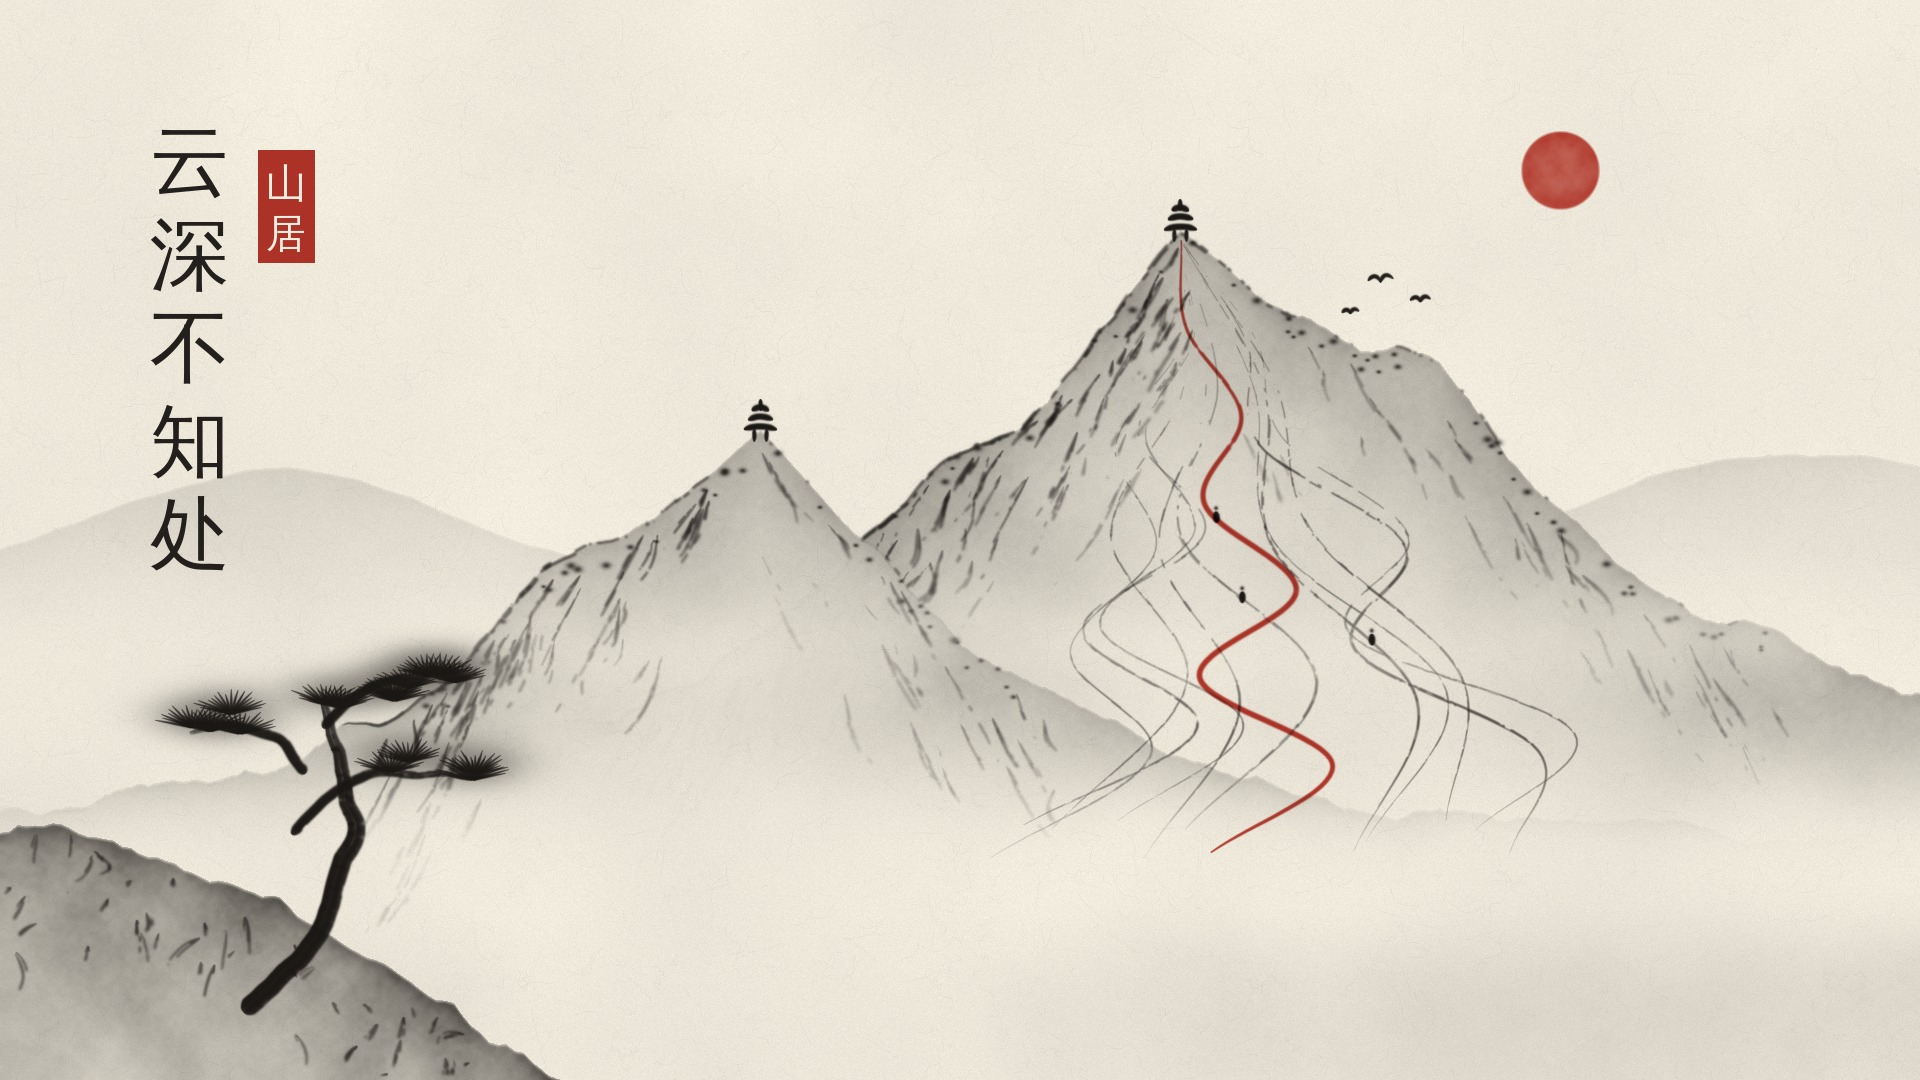
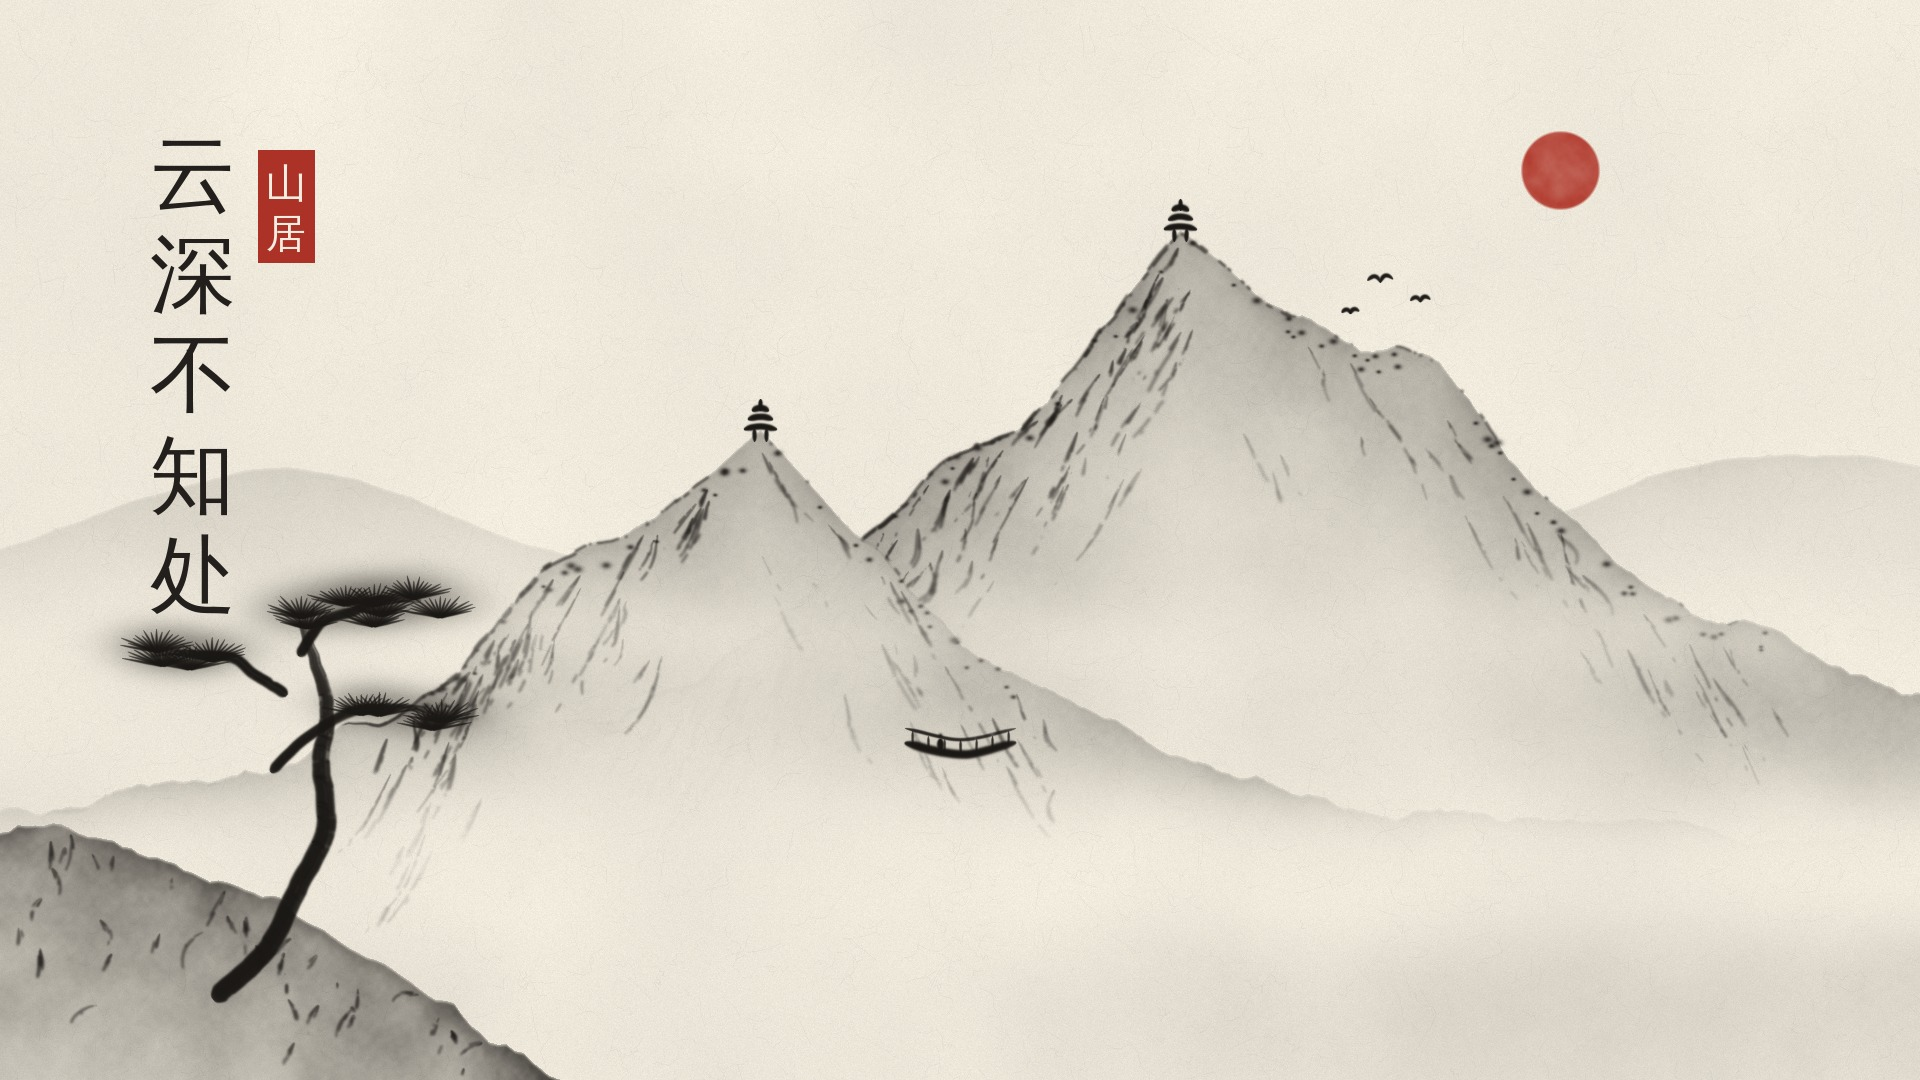
Use the first ink wash version as the final 云深不知处
Restore the footbridge scene (no red paths), drop the v2/v3 drafts, and
rebuild the JPG, stage snapshots and draw-on GIF from it.

Claude-Session: https://claude.ai/code/session_01Gwxt9Bi3ndSAqmYBLqAHKM

diff --git a/drawing_output/scenes/ink_cloud_temple.py b/drawing_output/scenes/ink_cloud_temple.py
@@ -35,30 +35,33 @@ p.moss(second, TX - 360, TX + 280, n=40)
 p.ridge_line(second, TX - 420, TX + 320)
 p.stage('主峰')
 
-# ---- pilgrim paths climbing out of the mist to the summit temple, pavilions on both peaks
-paths = p.trails(main, (SX, SY), n=12, x_range=(SX - 120, SX + 420), start_y=(820, 860), red_index=6, seed=12)
-p.mist(860, 90, 0.9)
+# ---- mist in the gorge, the footbridge across it, a pavilion on the left peak's shoulder
+p.mist(860, 80, 0.85)
 p.mist(640, 50, 0.5)
-for (i, t) in [(3, 0.4), (6, 0.55), (9, 0.35)]:
-    q = paths[i][int(t * (len(paths[i]) - 1))]
-    p.traveller(q[0], q[1])
+BY = 742
+p.stroke(spline([(905, BY), (960, BY + 12), (1015, BY)], 10), 3, 0.75, dry=0.25, taper=(0.1, 0.1))
+p.stroke(spline([(905, BY - 14), (960, BY - 3), (1015, BY - 14)], 10), 1.4, 0.55, dry=0.3, taper=(0.1, 0.1))
+for x in np.linspace(912, 1008, 7):
+    y = BY + 12 * (1 - ((x - 960) / 55) ** 2)
+    p.stroke([(x, y - 14), (x, y)], 1.1, 0.5, dry=0.3)
 p.pagoda(TX, int(second[TX]) + 6)
 p.pagoda(SX, int(main[SX]) + 6)
-p.stage('山径')
+p.traveller(940, BY + 4)
+p.stage('桥亭')
 
 # ---- foreground rock and pine, bottom-left
 rock = 820 + 260 * ((p.xs / 560) ** 1.5) + 28 * fbm1d(1920, 70, 4, 17)
 rock[p.xs > 560] = 2000
 p.rock(rock)
-p.pine((240, 1010), (330, 700), bend=60,
-       branches=[((290, 830), (470, 780), -30), ((306, 770), (190, 735), 26), ((322, 725), (450, 680), -20)],
-       extra_tufts=[(335, 690), (390, 706)])
+p.pine((220, 1000), (300, 620), bend=60,
+       branches=[((270, 770), (450, 720), -30), ((284, 700), (150, 660), 26), ((296, 650), (420, 600), -20)],
+       extra_tufts=[(305, 610), (360, 628)])
 p.stage('松石')
 
 # ---- red sun, birds, title and seal in the open sky at top left
 p.sun(1560, 170, 40)
 p.birds([(1380, 280, 0.9), (1420, 300, 0.7), (1350, 312, 0.6)])
-p.title_vertical('云深不知处', 150, 110, 80)
+p.title_vertical('云深不知处', 150, 120, 86)
 p.seal('山居', 258, 150, 40)
 p.save(out, stages_dir=stages)
 print('saved', out)
